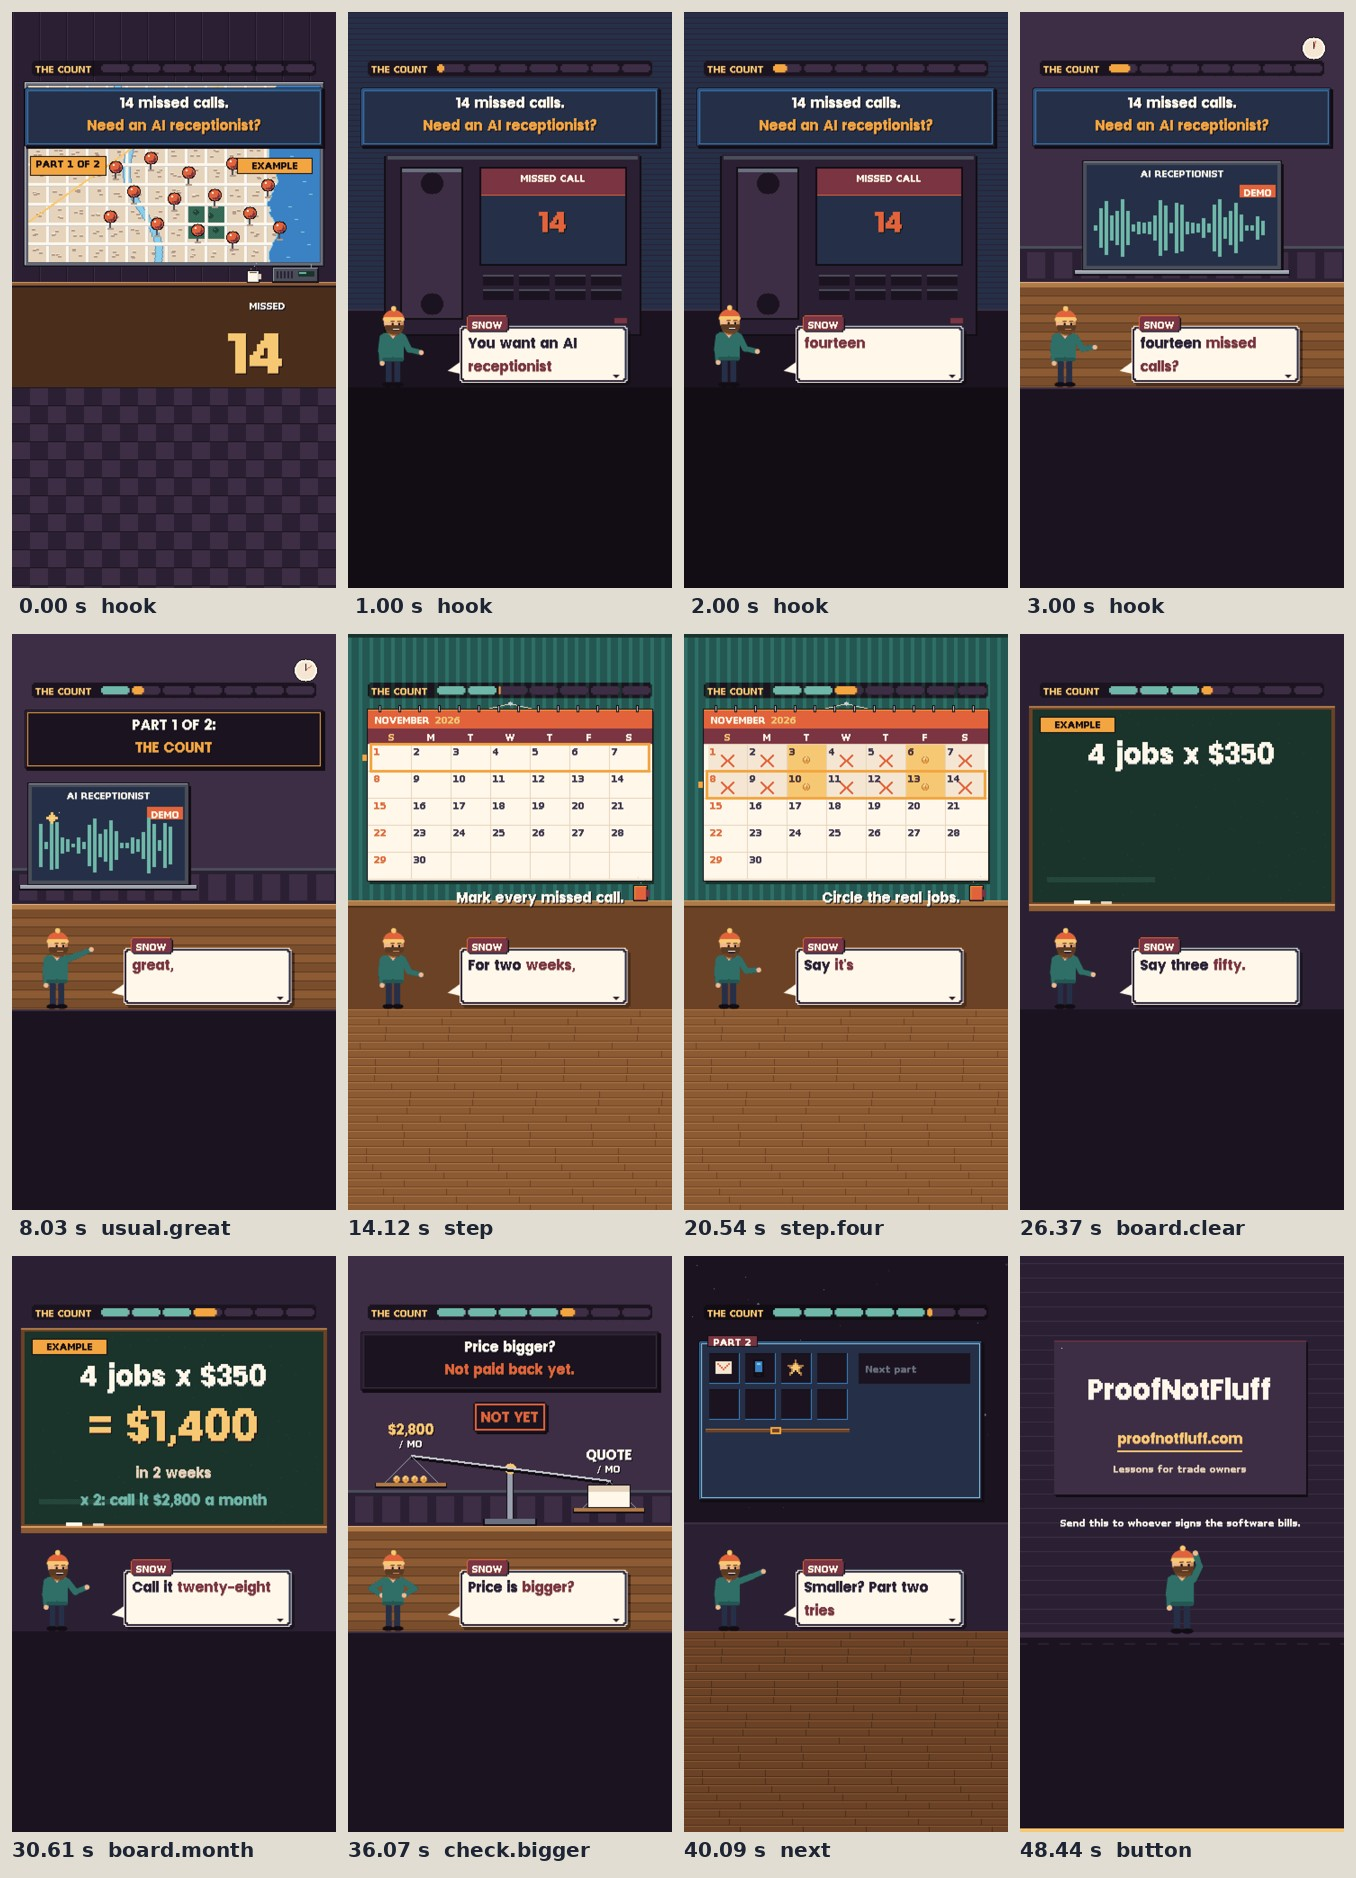
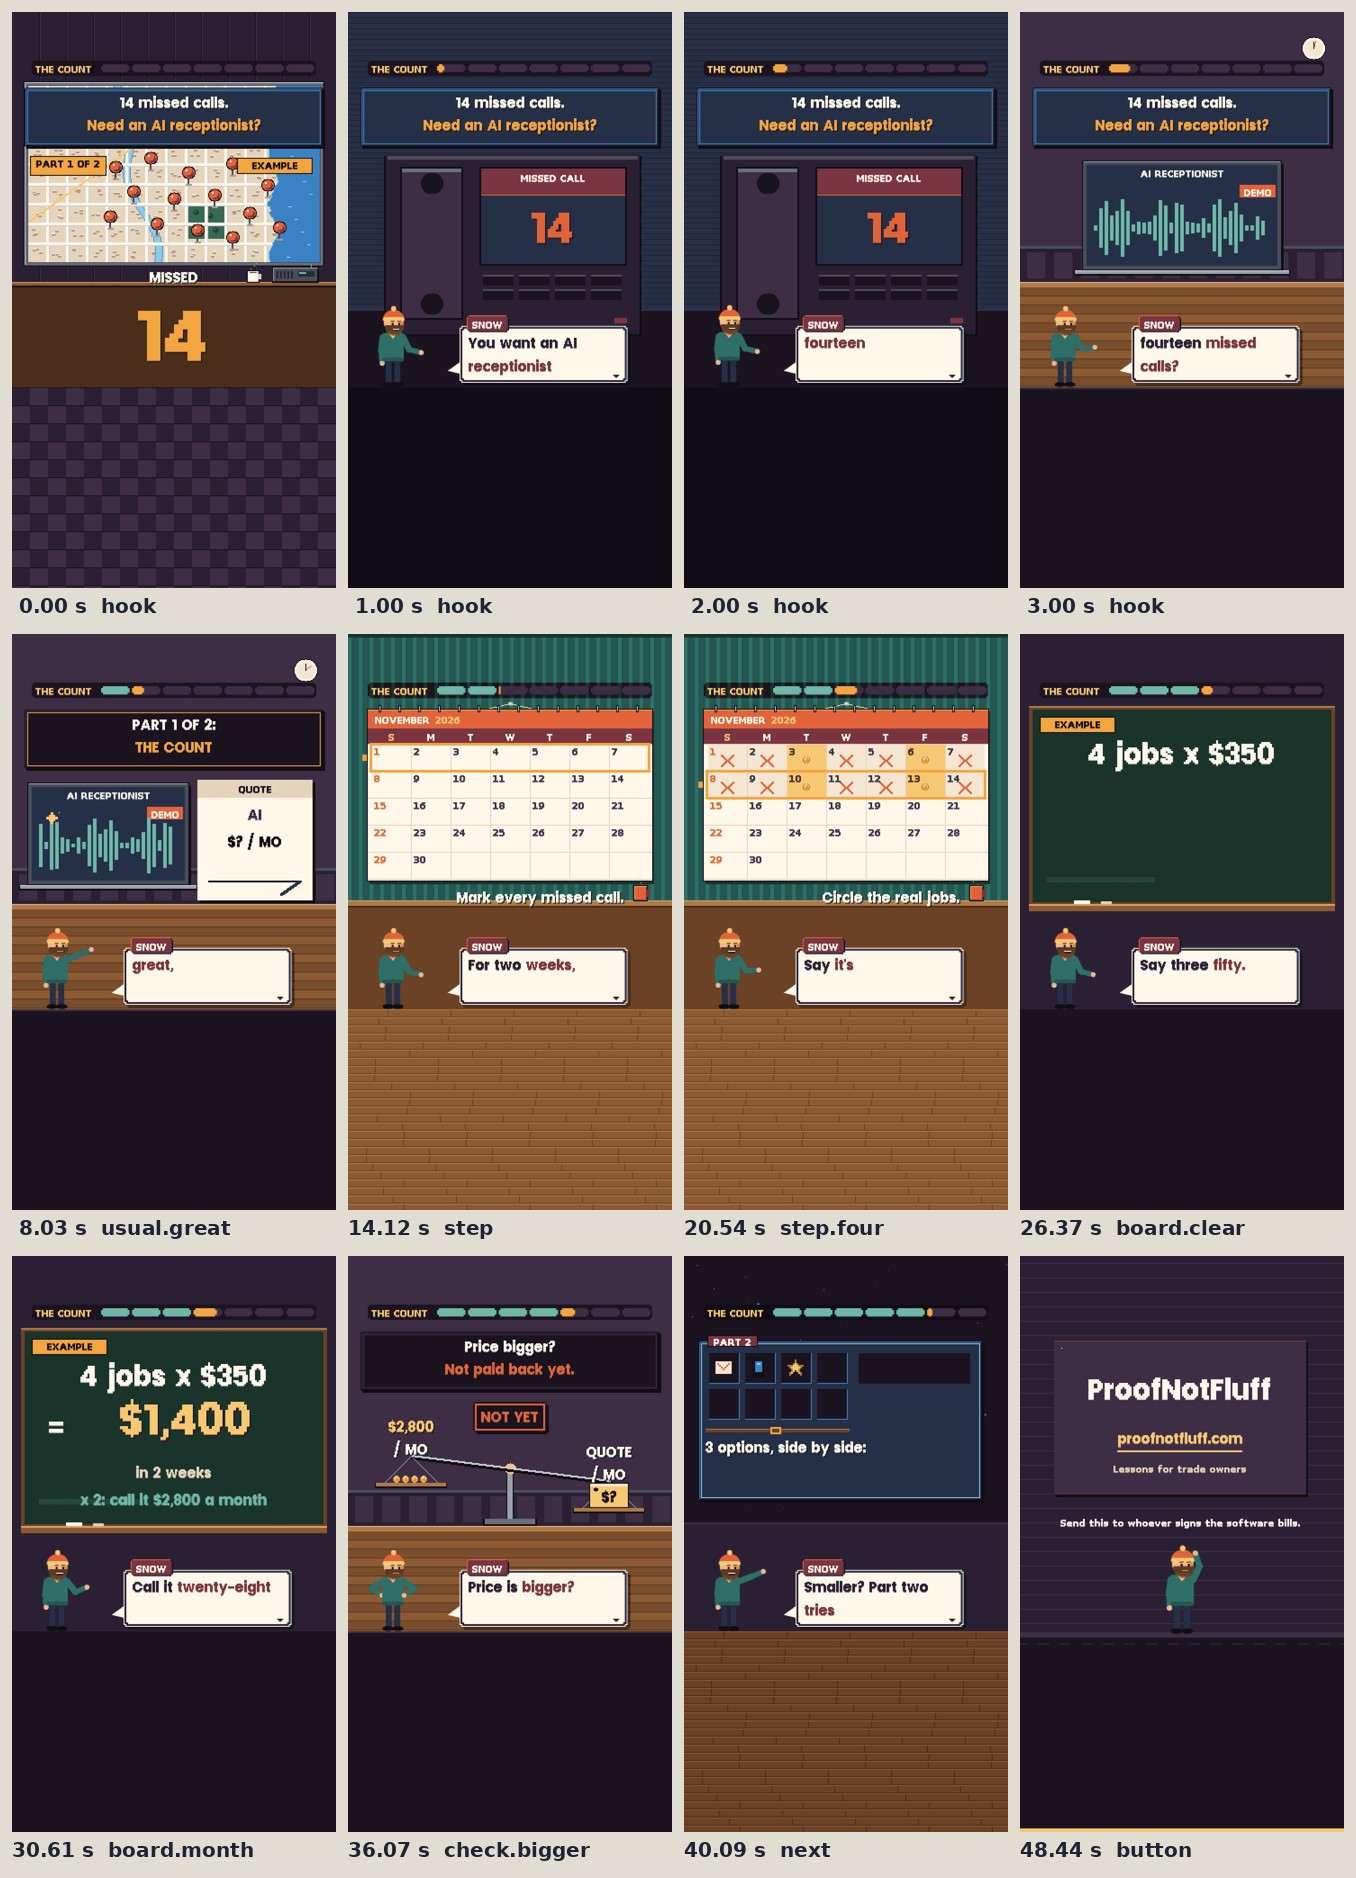
Studio: count-before-ai design fix round (cover, phone 14, quote card early, step hero, scale labels and tag, part 2 names, close); facts-captions fix; Kimi r1
Claude-Session: https://claude.ai/code/session_01XMn4eLRxu4gLkL7LjsDt7s

diff --git a/video/studio/videos/2026-11-13-count-before-ai/04_scene/scene.js b/video/studio/videos/2026-11-13-count-before-ai/04_scene/scene.js
@@ -109,7 +109,7 @@ const deskPhone = (k, d, n) => {
   /* the screen: MISSED CALL and the count in big type, the one focal point */
   P(146, 132 + o, 164, 110, INK); P(148, 134 + o, 160, 106, '#253048'); P(148, 134 + o, 160, 30, '#7A3442'); P(148, 163 + o, 160, 1, RED);
   k.text('MISSED CALL', 684, (138 + o) * 3, {size: 39, color: CREAM, align: 'center'});
-  k.text(n.missed.shown, 684, (172 + o) * 3, {size: 132, color: RED, align: 'center', drop: INK});
+  k.text(n.missed.shown, 684, (168 + o) * 3, {size: 198, color: RED, align: 'center', drop: INK});
   /* the keys */
   for (let r = 0; r < 2; r++) for (let c = 0; c < 4; c++) { P(150 + c * 40, 252 + o + r * 16, 34, 12, '#1B1420'); P(150 + c * 40, 252 + o + r * 16, 34, 2, '#4A4E5A'); }
   /* the ring light blinks once a second */
@@ -136,7 +136,7 @@ window.SCENE = {
   host_name: 'Snow',
   hud: 'THE COUNT',
   sendLine: 'Send this to whoever signs the software bills.',
-  transitions: {usual: 'dissolve', step: 'levelselect', board: 'dissolve', check: 'dissolve', next: 'levelselect', button: 'gameover'},
+  transitions: {usual: 'dissolve', step: 'levelselect', board: 'dissolve', check: 'dissolve', next: 'levelselect', button: 'dissolve'},
   trauma: {'board.two': 0.6},
   sections: {
     /* ---- hook: three shots. The cover: the dispatch board with 14 red pins already down, the hero 14, the plate and  */
@@ -144,7 +144,7 @@ window.SCENE = {
     /* cut to the laptop with the AI RECEPTIONIST screen. The plate stays up through every cut.                         */
     hook: (k, T) => {
       const n = k.data.numbers;
-      const tIn = Math.min(0.8, Math.max(0.4, wordT(k, 'hook', /^missed/i, 0.6))), tOut = Math.min(2.9, wordT(k, 'hook', /^need/i, 2.8));
+      const tIn = 0.6, tOut = Math.min(2.9, wordT(k, 'hook', /^need/i, 2.8));
       if (T >= tOut) {
         const d = office(k, {top: 300});
         laptop(k, d, 70, 166, 220, 120, {demo: true});
@@ -158,8 +158,8 @@ window.SCENE = {
       }
       k.sets.dispatch({pins: PINS.slice(0, n.missed.value).map(([x, y]) => ({x, y, at: -1, c: '#E2633B'}))});
       const d = px(k);
-      k.text(n.missed.shown, 912, 880, {size: 264, color: GOLD, align: 'right', drop: INK});
-      k.text('MISSED', 912, 836, {size: 39, color: CREAM, align: 'right', drop: INK});
+      k.text('MISSED', 540, 852, {size: 66, color: CREAM, align: 'center', drop: INK});
+      k.text(n.missed.shown, 540, 920, {size: 330, color: 'accent', align: 'center', drop: INK});
       hookPlate(k, d, n);
       partTag(k, d, n);
       exTag(k, d, 250, 162);
@@ -175,8 +175,8 @@ window.SCENE = {
         k.sets.dispatch({pins: PINS.slice(0, n.missed.value).map(([x, y]) => ({x, y, at: tW - 1, c: '#E2633B'}))});
         const d2 = px(k);
         d2.win(14, 84, 332, 66, {base: '#1B1420', hi: '#3D2E45', lo: INK, rule: '#3D2E45'});
-        k.slam(`${n.missed.shown} missed calls.`, 540, 270, tW + 0.05, {size: 66, color: CREAM, align: 'center', from: 0.4, drop: INK, glint: false});
-        k.slam('Worth how much?', 540, 346, tW + 0.12, {size: 66, color: GOLD, align: 'center', from: 0.4, drop: INK, glint: false});
+        k.text(`${n.missed.shown} missed calls.`, 540, 270, {size: 66, color: CREAM, align: 'center', drop: INK});
+        k.text('Worth how much?', 540, 346, {size: 66, color: GOLD, align: 'center', drop: INK});
         if (T >= tWorth) stampBox(k, 'WORTH: ?', 540, 600, tWorth, {color: RED, freeze: 4});
         return host(k, T >= tWorth + 0.2 ? 'shrug' : null);
       }
@@ -186,14 +186,14 @@ window.SCENE = {
       k.slam(`PART ${n.part.shown} OF ${n.series.shown}:`, 540, 270, t0 + 0.05, {size: 66, color: CREAM, align: 'center', from: 0.4, drop: INK, glint: false});
       k.slam('THE COUNT', 540, 346, t0 + 0.12, {size: 66, color: ORANGE, align: 'center', from: 0.4, drop: INK, glint: false});
       if (T >= tGreat) [[44, 204], [120, 196], [164, 212]].forEach(([x, y], i) => { const f = d.fr(tGreat + i * 0.12); if (f >= 0) { const yy = y - Math.min(6, f); d.P(x - 1, yy - 6, 3, 13, GOLD); d.P(x - 6, yy - 1, 13, 3, GOLD); d.P(x - 3, yy - 3, 7, 7, GOLD); d.DOT(x, yy, CREAM); d.twinkle(x + 8, yy - 6, f, CREAM); } });
-      if (T >= tSign) {
-        const sl = d.ease(tSign, 6, 120), x = 206, y = 162 + sl;
+      if (T >= t0 + 0.3) {
+        const sl = d.ease(t0 + 0.3, 6, 120), x = 206, y = 162 + sl;
         d.P(x + 3, y + 3, 128, 134, INK); d.P(x, y, 128, 134, CREAM); d.P(x, y, 128, 20, '#E6D3BC');
         k.text('QUOTE', (x + 64) * 3, (y + 4) * 3, {size: 39, color: INK, align: 'center'});
-        k.text('AI ANSWERING', (x + 64) * 3, (y + 30) * 3, {size: 30, color: '#3D2E45', align: 'center', lint: false});
-        k.text('$ ? / MO', (x + 64) * 3, (y + 56) * 3, {size: 39, color: INK, align: 'center'});
-        d.P(x + 12, y + 112, 104, 2, INK); k.text('SIGN HERE', (x + 64) * 3, (y + 92) * 3, {size: 30, color: RED, align: 'center', lint: false});
-        const pp = clamp((T - tSign - 0.3) / 0.6); d.line(x + 112 - Math.round(40 * pp), y + 112, x + 92 - Math.round(40 * pp), y + 126, '#253048', 3);
+        k.text('AI', (x + 64) * 3, (y + 28) * 3, {size: 66, color: '#3D2E45', align: 'center'});
+        k.text('$? / MO', (x + 64) * 3, (y + 58) * 3, {size: 66, color: INK, align: 'center'});
+        d.P(x + 12, y + 112, 104, 2, INK); if (T >= tSign) k.text('SIGN', (x + 64) * 3, (y + 88) * 3, {size: 66, color: RED, align: 'center'});
+        const pp = clamp((T - tSign) / 0.6); d.line(x + 112 - Math.round(40 * pp), y + 112, x + 92 - Math.round(40 * pp), y + 126, '#253048', 3);
       }
       return host(k, k.live('usual.great') ? 'point' : null);
     },
@@ -208,9 +208,9 @@ window.SCENE = {
       JOB_DAYS.forEach((dd, i) => fills.push({day: dd, at: tJobs - 0.3 + i * 0.25, mark: 'coin', c: '#F7C873'}));
       k.sets.calendar({month: 'NOVEMBER', year: 2026, start: 0, days: 30, fills, weeks: [{row: 0, at: t0 + 0.1}, {row: 1, at: tMark + 0.8}]});
       if (T >= tFour) {
-        k.slam(`${n.jobs.shown} OF ${n.missed.shown}`, 920, 846, tFour, {size: 132, color: GOLD, align: 'right', from: 0.5, drop: INK, glint: false});
-        k.text('REAL JOBS', 330, 870, {size: 39, color: CREAM, drop: INK});
-        k.text('OF THE CALLS', 330, 918, {size: 39, color: CREAM, drop: INK});
+        k.slam(n.jobs.shown, 920, 826, tFour, {size: 198, color: GOLD, align: 'right', from: 0.5, drop: INK, glint: false});
+        k.text('REAL JOBS', 800, 846, {size: 66, color: CREAM, align: 'right', drop: INK});
+        k.text(`OF ${n.missed.shown} CALLS`, 800, 920, {size: 66, color: CREAM, align: 'right', drop: INK});
       } else {
         const s = T >= k.S('step.circle') ? 'Circle the real jobs.' : 'Mark every missed call.';
         k.text(s, 920, 846, {size: fit(k, s, 600, [66, 39]), color: CREAM, align: 'right', drop: INK});
@@ -253,12 +253,13 @@ window.SCENE = {
       const ly = Y0 - tilt, ry = Y0 + tilt; pan(70, ly); pan(290, ry);
       /* left pan: the money on it; right pan: the quote sheet */
       for (let i = 0; i < 4; i++) d.coin(50 + i * 10, ly + 22, 0);
-      k.text(n.month.shown, 210, (ly - 30) * 3 - 30, {size: 66, color: GOLD, align: 'center', drop: INK});
-      k.text('/ MO', 210, (ly - 30) * 3 + 30, {size: 39, color: CREAM, align: 'center', drop: INK});
-      P(266, ry + 4, 48, 26, INK); P(267, ry + 5, 46, 24, CREAM); P(267, ry + 5, 46, 7, '#E6D3BC');
-      k.text('QUOTE', 870, (ry - 30) * 3 - 30, {size: 66, color: CREAM, align: 'center', drop: INK});
-      k.text('/ MO', 870, (ry - 30) * 3 + 30, {size: 39, color: CREAM, align: 'center', drop: INK});
+      k.text(n.month.shown, 210, (ly - 44) * 3 - 40, {size: 66, color: GOLD, align: 'center', drop: INK});
+      k.text('/ MO', 210, (ly - 44) * 3 + 36, {size: 66, color: CREAM, align: 'center', drop: INK});
+      P(268, ry + 2, 44, 28, INK); P(269, ry + 3, 42, 26, GOLD); P(269, ry + 3, 42, 3, '#FFF2B8'); disc(275, ry + 9, 2, INK); k.text('$?', 870, (ry + 7) * 3, {size: 66, color: INK, align: 'center'});
+      k.text('QUOTE', 870, (ry - 44) * 3 - 40, {size: 66, color: CREAM, align: 'center', drop: INK});
+      k.text('/ MO', 870, (ry - 44) * 3 + 36, {size: 66, color: CREAM, align: 'center', drop: INK});
       if (T >= tBig && T < tSm) stampBox(k, 'NOT YET', 540, 486, tBig, {color: RED, freeze: 4});
+      else if (T < tBig) k.text('Which side is heavier?', 540, 476, {size: 66, color: SAND, align: 'center', drop: INK});
       return host(k, k.live('check.bigger') ? 'shrug' : null);
     },
 
@@ -266,10 +267,10 @@ window.SCENE = {
     /* "three", "options", "side".                                                                                      */
     next: (k, T) => {
       const n = k.data.numbers, t0 = k.S('next'), tA = wordT(k, 'next', /^three/i, 0.6), tB = wordT(k, 'next', /^options/i, 1.0), tC = wordT(k, 'next', /^side/i, 1.6);
-      k.sets.inventory({title: `PART ${n.next.shown}`, hint: 'Next part', items: [{icon: 'mail', name: 'TEXT BACK'}, {icon: 'phone', name: 'A PERSON'}, {icon: 'star', name: 'AI'}],
+      k.sets.inventory({title: `PART ${n.next.shown}`, hint: ' ', items: [{icon: 'mail', name: 'TEXT BACK'}, {icon: 'phone', name: 'A PERSON'}, {icon: 'star', name: 'AI'}],
         select: [{slot: 0, at: tA}, {slot: 1, at: tB}, {slot: 2, at: tC}]});
-      if (T >= tA) k.slam(`${n.opts.shown} options,`, 72, 640, tA, {size: 66, color: CREAM, from: 0.4, drop: INK, glint: false});
-      if (T >= tC) k.slam('side by side.', 72, 716, tC, {size: 66, color: GOLD, from: 0.4, drop: INK, glint: false});
+      k.text(`${n.opts.shown} options, side by side:`, 72, 606, {size: 66, color: CREAM, drop: INK});
+      [['TEXT BACK', tA], ['A PERSON', tB], ['AI', tC]].forEach(([s2, ti], i) => { if (T >= ti) k.slam(s2, 72 + i * 0, 690 + i * 70, ti, {size: 66, color: i === 2 ? GOLD : '#F4E6D3', from: 0.4, drop: INK, glint: false}); });
       return host(k, k.live('next') ? 'point' : null);
     },
 
@@ -279,12 +280,12 @@ window.SCENE = {
       const n = k.data.numbers, t0 = k.S('button');
       const d = chalk(k);
       /* the tally from the calendar, chalked small in the corner: 14 strokes, 4 circled */
-      for (let i = 0; i < n.missed.value; i++) { const g = Math.floor(i / 5), j = i % 5, x = 36 + g * 30 + j * 5; if (j === 4) d.line(x - 21, 116, x + 1, 100, CREAM, 1); else d.P(x, 98, 1, 20, CREAM); }
+      for (let i = 0; i < n.missed.value; i++) { const g = Math.floor(i / 5), j = i % 5, x = 36 + g * 30 + j * 5; if (j === 4) d.line(x - 21, 108, x + 1, 92, CREAM, 1); else d.P(x, 91, 1, 18, CREAM); }
       k.slam('Count the', 540, 330, t0 + 0.05, {size: 132, color: CREAM, align: 'center', from: 0.4, glint: false});
       k.slam('missed calls', 540, 480, t0 + 0.12, {size: fit(k, 'missed calls', 900, [132, 99]), color: GOLD, align: 'center', from: 0.4, drop: INK, glint: false});
-      k.slam('before you buy.', 540, 630, t0 + 0.2, {size: 99, color: CREAM, align: 'center', from: 0.4, glint: false});
-      k.sweep(540 - k.measure('missed calls', {size: fit(k, 'missed calls', 900, [132, 99])}) / 2, 624, k.measure('missed calls', {size: fit(k, 'missed calls', 900, [132, 99])}), 6, t0 + 0.6, {color: 'accent'});
-      k.text(`NEXT: PART ${n.next.shown}`, 540, 780, {size: 66, color: TEAL, align: 'center'});
+      k.slam('before you buy.', 540, 596, t0 + 0.2, {size: 99, color: CREAM, align: 'center', from: 0.4, glint: false});
+      k.sweep(540 - k.measure('missed calls', {size: fit(k, 'missed calls', 900, [132, 99])}) / 2, 582, k.measure('missed calls', {size: fit(k, 'missed calls', 900, [132, 99])}), 6, t0 + 0.6, {color: 'accent'});
+      k.text(`NEXT: PART ${n.next.shown}`, 540, 712, {size: 99, color: GOLD, align: 'center', drop: INK});
       return host(k, T >= t0 + 1.2 ? 'wave' : 'point');
     },
   },
